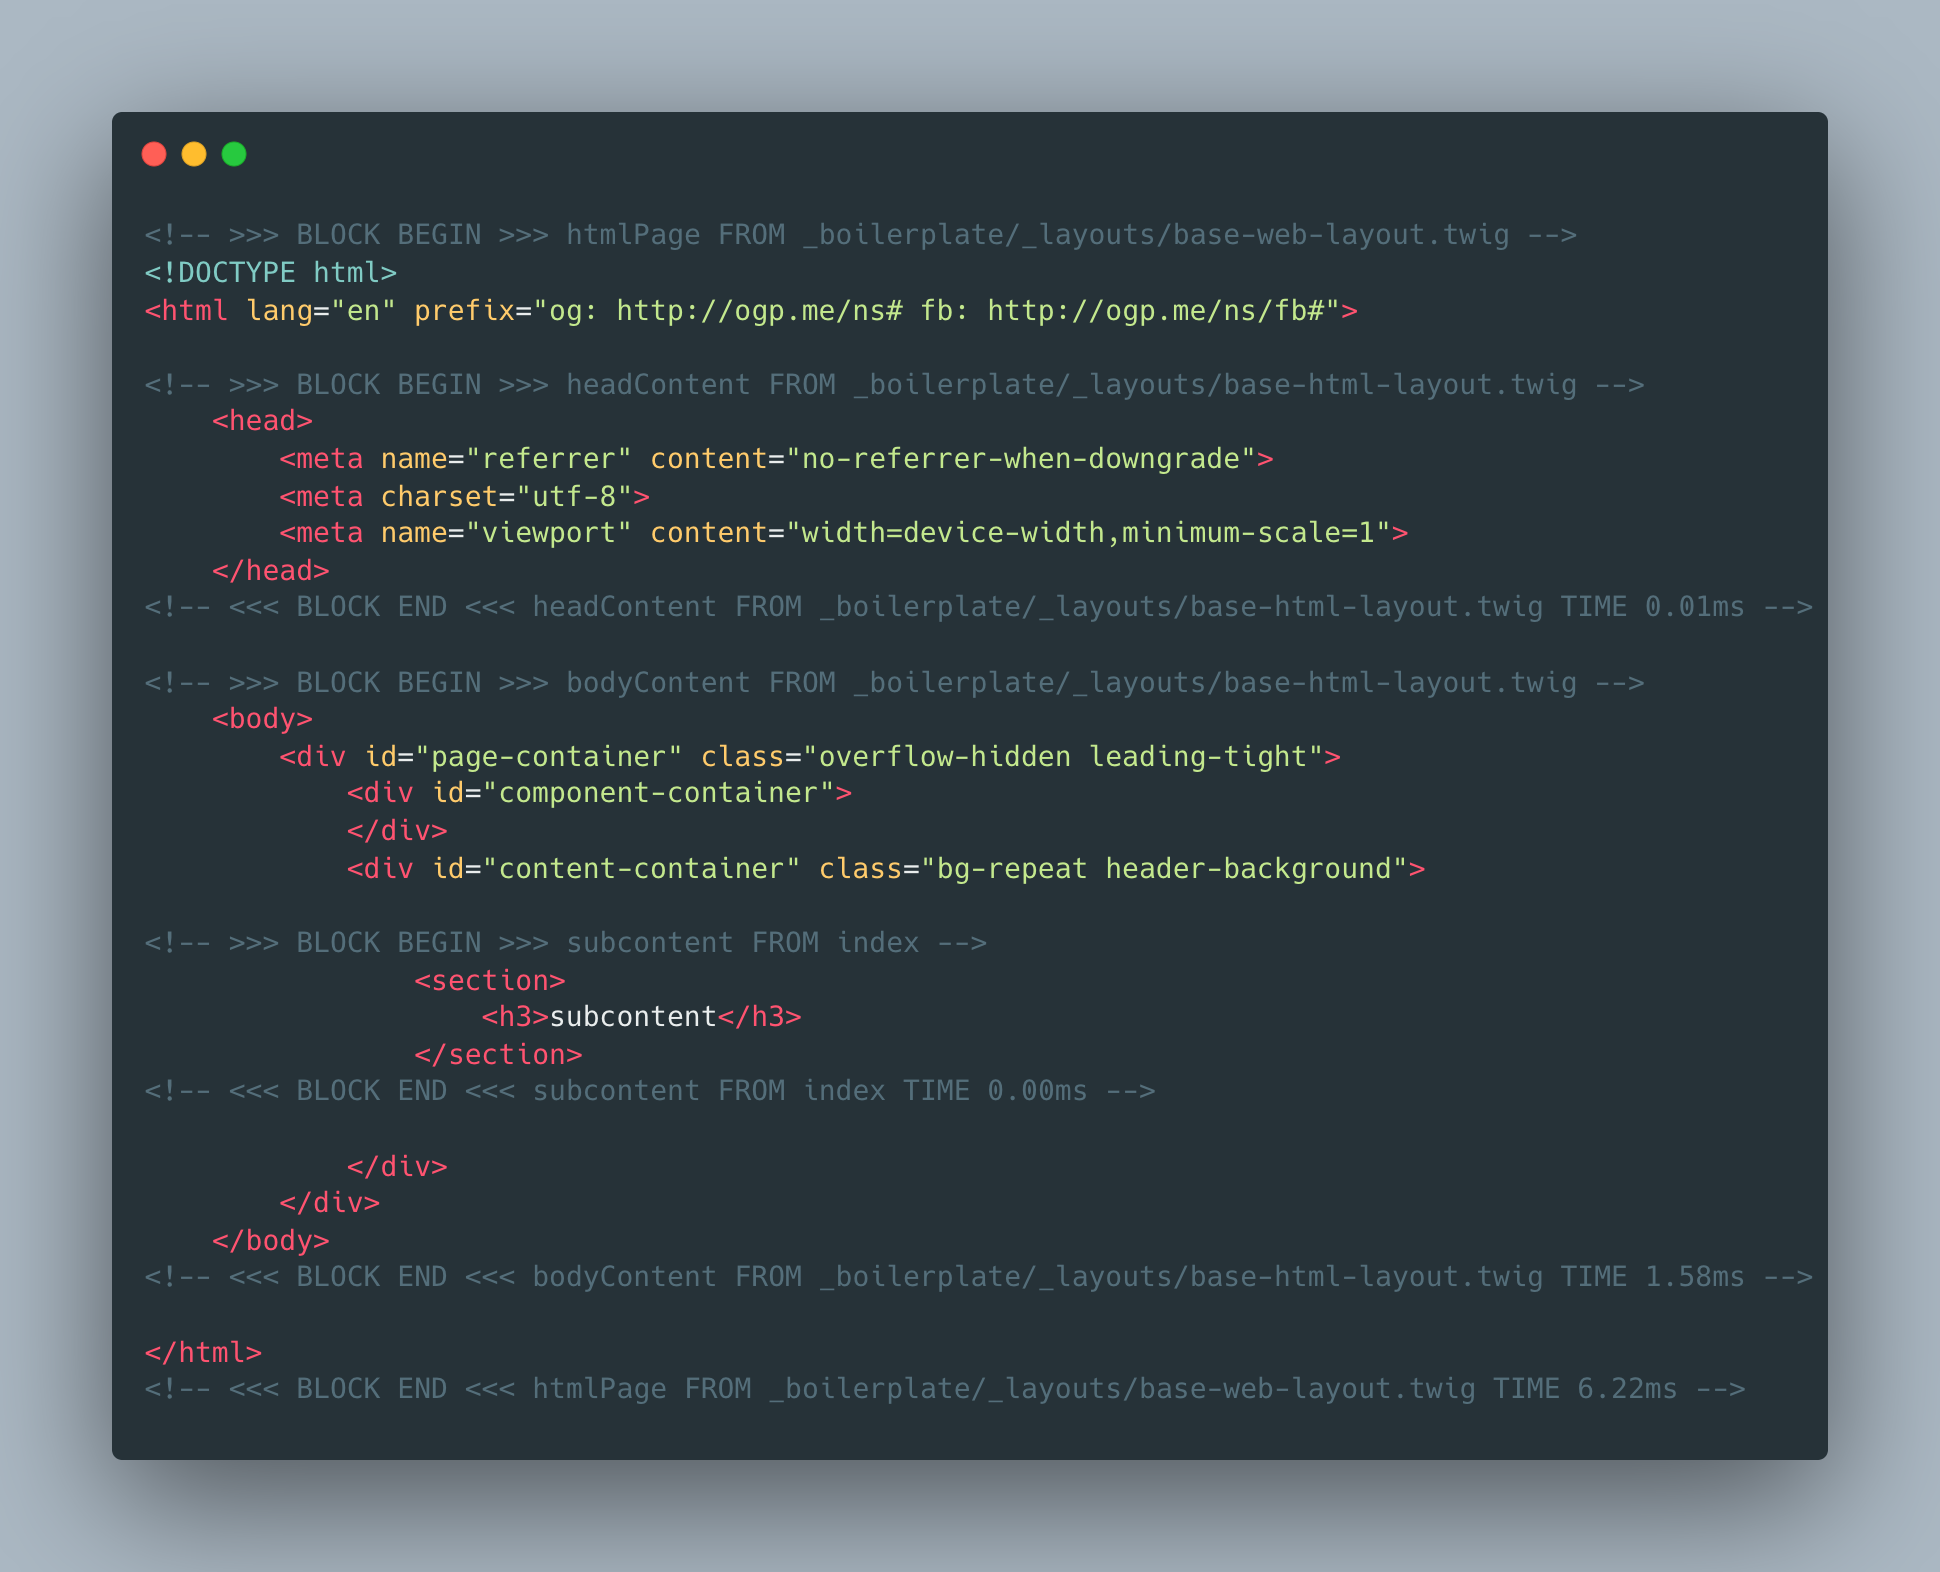
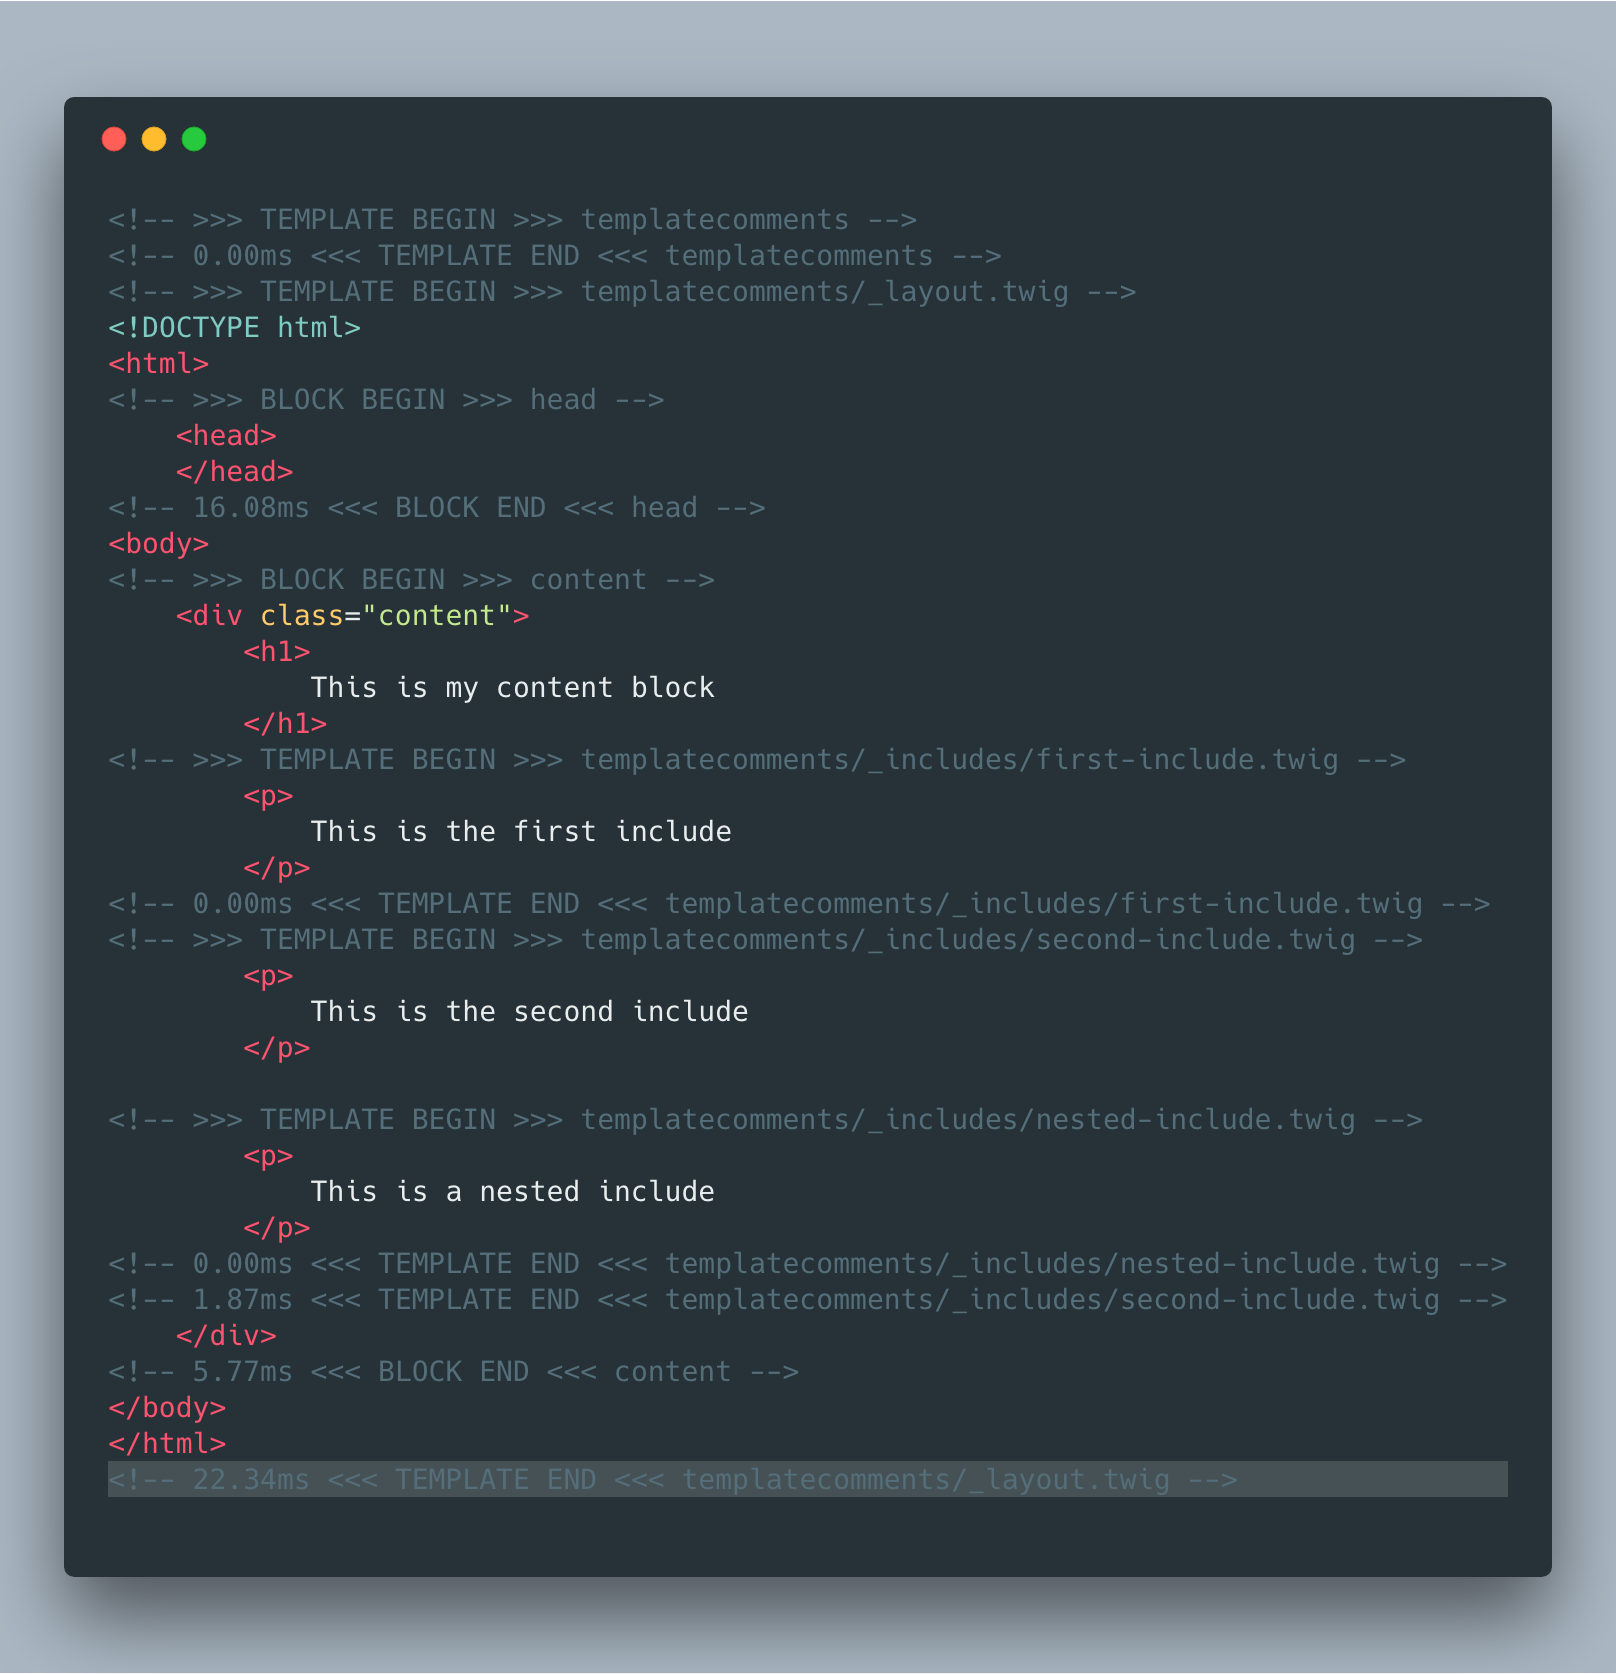
docs: Document `{% include %}` tracking again

diff --git a/docs/docs/index.md b/docs/docs/index.md
@@ -28,9 +28,9 @@ You can also install Template Comments via the **Plugin Store** in the Craft Con
 
 ## Template Comments Overview
 
-Template Comments is a debugging tool that wraps your Twig `{% block %}`s with HTML comments. By default, it does this only when `devMode` is on.
+Template Comments is a debugging tool that wraps your Twig `{% block %}`s and templates that you `{% include %}` with HTML comments. By default, it does this only when `devMode` is on.
 
-It also records performance data, so you know how much overhead each `{% block %}` is adding.
+It also records performance data, so you know how much overhead each `{% block %}` or `{% include %}` is adding.
 
 With more complicated "content builder" setups, this can help bring clarity to where the various HTML on your pages is coming from.
 
@@ -62,23 +62,34 @@ return [
     'onlyCommentsInDevMode' => true,
 
     /**
-     * @var array Don't add comments to template blocks that contain these strings (case-insensitive)
+     * @var bool Whether or not to show comments for templates that are include'd
      */
-    public $excludeBlocksThatContain = [
-        'css',
-        'js',
-        'javascript',
-    ];
+    'templateCommentsEnabled' => true,
+
+    /**
+     * @var bool Whether or not to show comments for `{% block %}`s
+     */
+    'blockCommentsEnabled' => true,
+
+    /**
+     * @var array Template file suffixes that Template Comments should be enabled for
+     */
+    'allowedTemplateSuffixes' => [
+        '',
+        'twig',
+        'htm',
+        'html',
+    ],
 ];
 ```
 
 ## Using Template Comments
 
-Nothing much to say here; install the plugin, and it "just works" when you view the source of a Twig-rendered page in your web browser. If `devMode` is off, it doesn't even install itself, so there should be zero effect in production.
+Nothing much to say here; install the plugin, and it "just works". If `devMode` is off, it doesn't even install itself, so there should be zero effect in production.
 
 The `<<< END <<<` comments all include performance data in milliseconds, e.g.:
 ```html
-<!-- <<< BLOCK END <<< bodyHtml FROM _layouts/generic-page-layout.twig TIME 1.56ms -->
+<!-- 22.34ms <<< TEMPLATE END <<< templatecomments/_layout.twig -->
 ```
 
 Brought to you by [nystudio107](https://nystudio107.com/)
